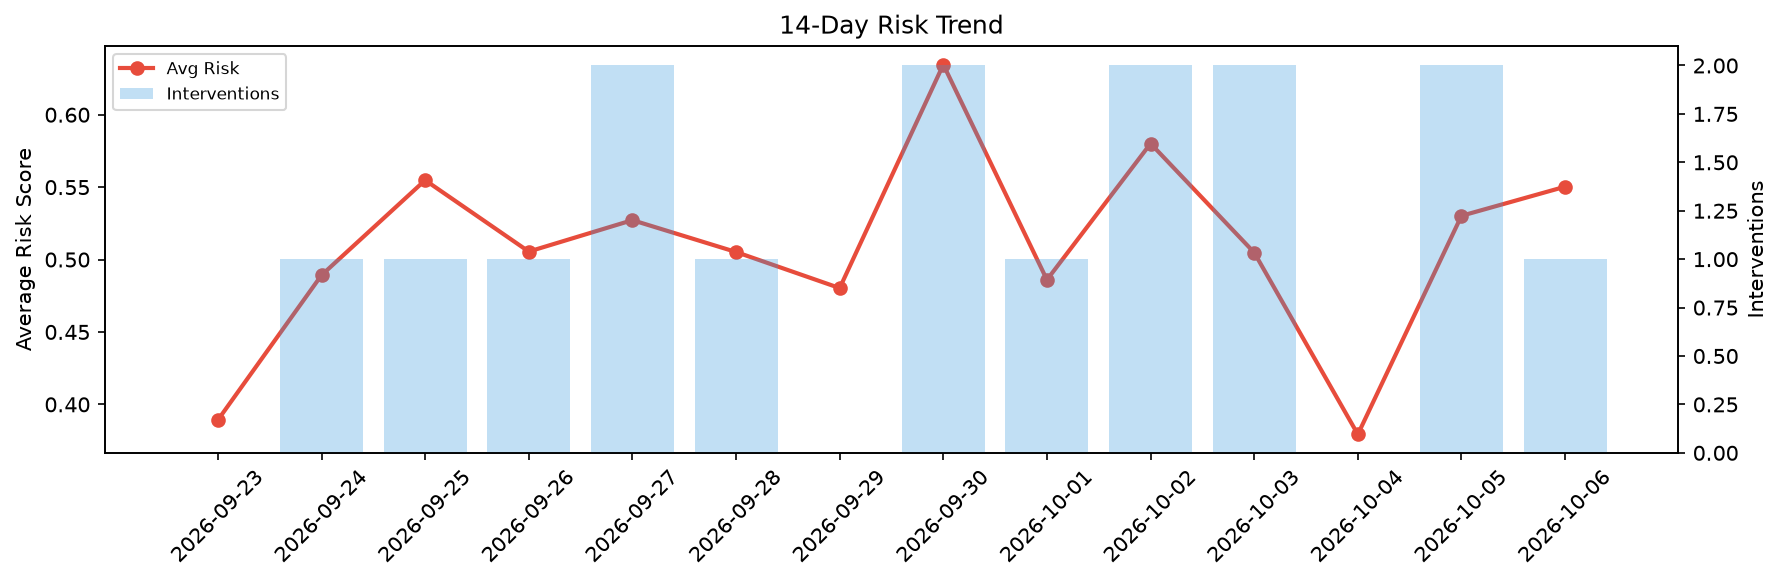
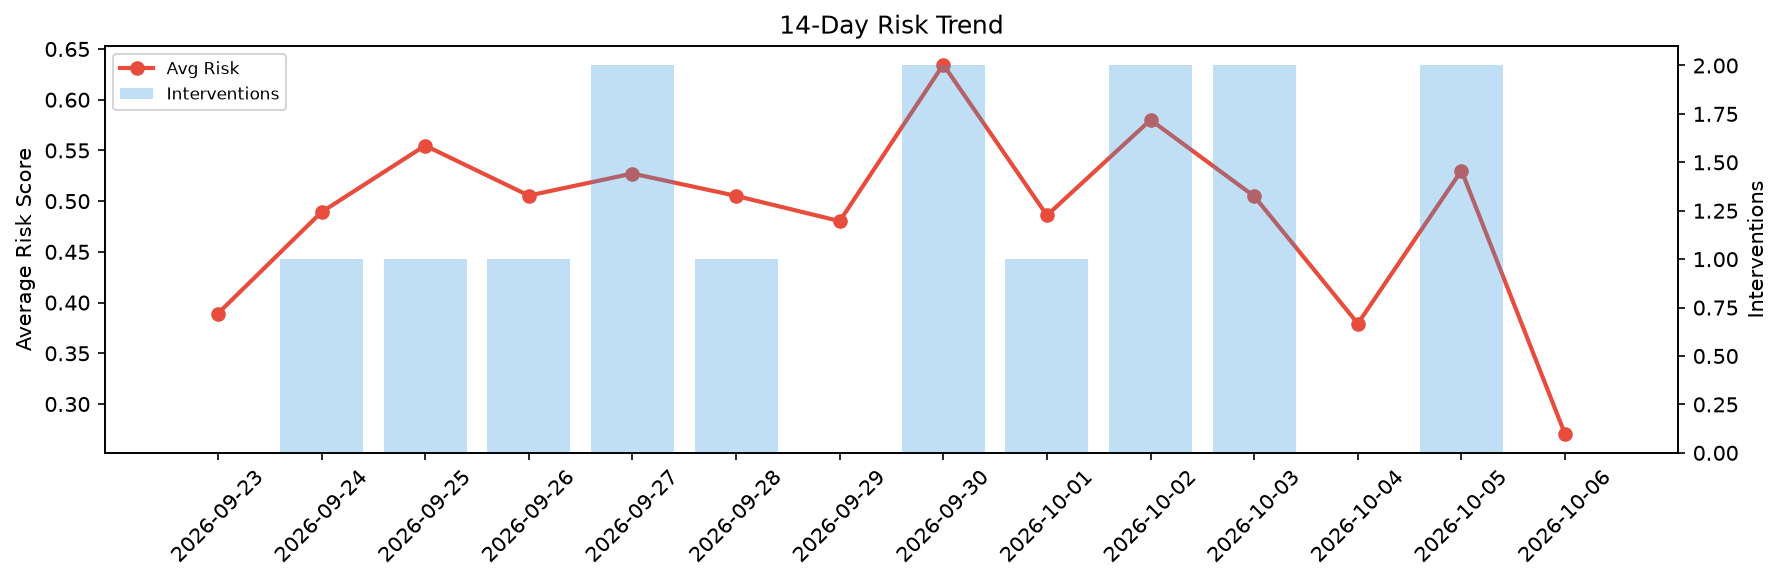
agent-improvement: daily cycle 2026-10-06T15:11

diff --git a/logs/2026-10-06.md b/logs/2026-10-06.md
@@ -1,6 +1,6 @@
 # Agent Improvement Report — 2026-10-06
 
-**Cycle ID:** `681d49bf` | **Avg Risk:** 0.5503 | **Interventions:** 1/4
+**Cycle ID:** `dc15e557` | **Avg Risk:** 0.2701 | **Interventions:** 0/4
 
 ![Dashboard](2026-10-06_dashboard.png)
 
@@ -10,18 +10,18 @@
 
 | Domain | Risk Score | Decision | Alerts |
 |--------|-----------|----------|--------|
-| code_review | 0.5804 | monitor | none |
-| incident_response | 0.5717 | monitor | blast_radius |
-| data_pipeline | 0.672 | intervene | freshness |
-| deployment | 0.3769 | monitor | none |
+| code_review | 0.3402 | monitor | none |
+| incident_response | 0.1454 | monitor | none |
+| data_pipeline | 0.2259 | monitor | none |
+| deployment | 0.3687 | monitor | none |
 
 ## Delta vs Yesterday
 
 | Domain | Today | Yesterday | Change |
 |--------|-------|-----------|--------|
-| code_review | 0.5804 | 0.5961 | 📉 -2.6% |
-| incident_response | 0.5717 | 0.2709 | 📈 111.0% |
-| data_pipeline | 0.672 | 0.615 | 📈 9.3% |
-| deployment | 0.3769 | 0.6389 | 📉 -41.0% |
+| code_review | 0.3402 | 0.5961 | 📉 -42.9% |
+| incident_response | 0.1454 | 0.2709 | 📉 -46.3% |
+| data_pipeline | 0.2259 | 0.615 | 📉 -63.3% |
+| deployment | 0.3687 | 0.6389 | 📉 -42.3% |
 
-**Refinement:** `{'adjustment': 'maintain', 'trend': 'improving', 'window': 4}`
+**Refinement:** `{'adjustment': 'tighten_thresholds', 'trend': 'degrading', 'window': 4}`
